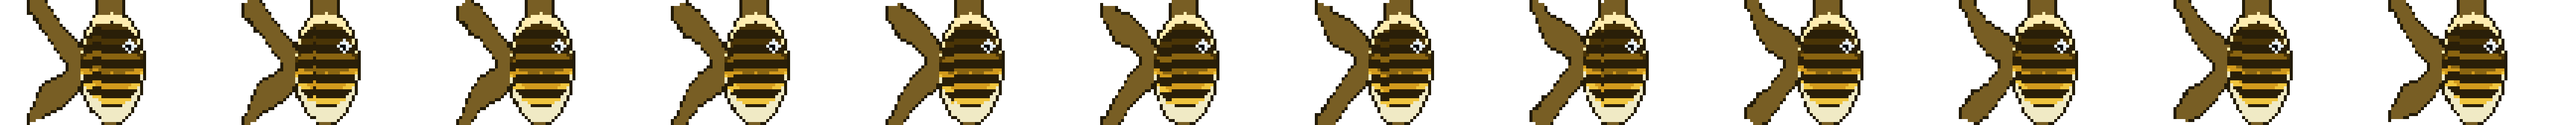
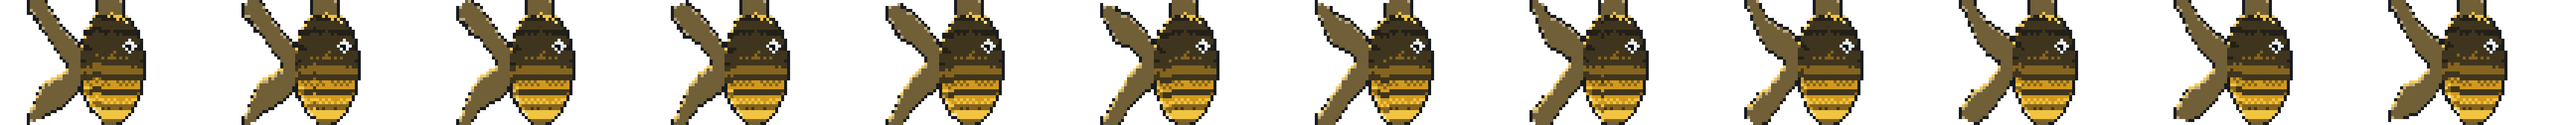
Rendering depth: dithering, hue-shifted ramps, rim light, occlusion
The generators were producing flat art: shading quantised hard onto five
ramp steps that varied in brightness but barely in hue, every silhouette
got the same 1px dark outline, and nothing was ever occluded. Fish were
the worst case — bodies shaded in horizontal bands by vertical position,
which ignores the form entirely and reads as a striped ellipse.

Core (every module inherits it):
  - ordered 4x4 Bayer dithering, so a 5-step ramp implies far more than
    five tones and band boundaries dissolve instead of snapping
  - luminance-preserving hue shift: highlights warm, shadows cool, value
    structure and the depth grade untouched
  - selective outlines — the edge facing the light takes a warm RIM role
    instead of the flat dark outline
  - a screen-space ambient-occlusion pass marching toward the light
  - a translucent TRANS role for membranes
  - one shared light direction driving all of the above

Creatures: continuous countershading plus a cylindrical falloff toward
both ends, a dithered specular highlight that follows the dorsal ridge
(replacing a blob that read as a sticker beside the eye), fin membranes
that thin toward their edge and keep every third column opaque as rays,
and markings that shade the body two ramp steps darker rather than
stamping one absolute colour — so a stripe still wraps a lit, round fish.

Flora and tiles pick up the dithering and occlusion; sea-fan webbing is
now membrane rather than stone.
[…]

diff --git a/tide-forge/index.html b/tide-forge/index.html
@@ -187,7 +187,8 @@
 // Role ids. A generated asset is a matrix of ROLES, never colors — one matrix
 // recolors into any palette / depth / corruption state. Shared by every module.
 const EMPTY=0,OUTLINE=1,SPEC=2,BACK=3,SHADOW=4,BASE=5,HIGH=6,BELLY=7,FIN=8,FINEDGE=9,
-      PATTERN=10,EYEW=11,EYEP=12,EYEH=13,GLOW=14,MOUTH=15,HAZE=16,HAZE2=17,GLOWDIM=18;
+      PATTERN=10,EYEW=11,EYEP=12,EYEH=13,GLOW=14,MOUTH=15,HAZE=16,HAZE2=17,GLOWDIM=18,
+      RIM=19,TRANS=20;
 
 const BASE_PALETTES=[
   {name:'coral',ramp:['#3a1410','#7a2d15','#c25a25','#e8873c','#f6c169']},
@@ -219,11 +220,37 @@ function fbm(x,y,s,oct,gain,P){let amp=1,f=1,sum=0,norm=0;
   for(let i=0;i<oct;i++){sum+=amp*vnoise(x*f,y*f,s+i*7919,P?P*f:0);norm+=amp;amp*=gain;f*=2;}
   return sum/norm;}
 
+// --- shading: ordered dithering ---
+// A 4x4 Bayer matrix lets a 5-step ramp imply far more than 5 tones: values that fall
+// between two steps alternate between them in a stable pattern instead of snapping.
+// This is the cheapest apparent-colour-depth trick in pixel art, and every generator
+// quantises through it.
+const LIGHT_X=-0.55, LIGHT_Y=-0.83;   // light from upper-left, shared by every generator
+const BAYER4=[[0,8,2,10],[12,4,14,6],[3,11,1,9],[15,7,13,5]];
+function shadeIndex(v,x,y,n,amt){
+  const b=(BAYER4[y&3][x&3]+0.5)/16-0.5;
+  return clamp(Math.floor(v*n+b*(amt==null?0.9:amt)),0,n-1);
+}
+// pick a role from a ramp of roles by a 0..1 lightness, dithered
+function shadeRole(ramp,v,x,y,amt){return ramp[shadeIndex(v,x,y,ramp.length,amt)];}
+
 // --- color ---
 function hex2rgb(h){return[parseInt(h.slice(1,3),16),parseInt(h.slice(3,5),16),parseInt(h.slice(5,7),16)];}
 function mix(a,b,t){return[a[0]+(b[0]-a[0])*t,a[1]+(b[1]-a[1])*t,a[2]+(b[2]-a[2])*t];}
 function darken(c,t){return mix(c,[3,6,10],t);}function lighten(c,t){return mix(c,[255,255,255],t);}
 function clamp(v,a,b){return v<a?a:v>b?b:v;}
+// Warm the highlights, cool the shadows — hue movement, not just value movement, is
+// most of what makes a ramp read as lit rather than as grey-scaled paint. Luminance is
+// restored afterwards so the ramp's value structure (and the depth grade) is untouched.
+const WARM=[255,186,96], COOL=[62,104,186];
+const luma=c=>0.299*c[0]+0.587*c[1]+0.114*c[2];
+function tintStep(c,t,strength){
+  if(!t)return c;
+  const k=Math.abs(t)*(strength==null?0.30:strength);
+  const m=mix(c,t>0?WARM:COOL,k);
+  const l0=luma(c),l1=Math.max(1,luma(m));
+  return[clamp(m[0]*l0/l1,0,255),clamp(m[1]*l0/l1,0,255),clamp(m[2]*l0/l1,0,255)];
+}
 function corruptColor(c,a){if(a<=0)return c;const l=0.3*c[0]+0.59*c[1]+0.11*c[2];let d=mix(c,[l,l,l],0.62*a);d=mix(d,[201,206,188],0.55*a);return mix(d,[150,172,132],0.18*a);}
 // the signature light-absorption curve — red dies first, then green. Shared with the game runtime.
 function gradeColor(c,depth){const t=clamp(depth/60,0,1);let r=c[0]*(1-0.88*t),g=c[1]*(1-0.42*t),b=c[2]*(1-0.10*t);r+=(9-r)*0.30*t;g+=(22-g)*0.28*t;b+=(46-b)*0.26*t;const dk=1-0.28*t;return[clamp(r*dk,0,255)|0,clamp(g*dk,0,255)|0,clamp(b*dk,0,255)|0];}
@@ -235,12 +262,20 @@ function gradeColor(c,depth){const t=clamp(depth/60,0,1);let r=c[0]*(1-0.88*t),g
 function q8(c){return[Math.round(c[0]),Math.round(c[1]),Math.round(c[2])];}
 function buildColorCache(palIdx,depth,corrupt){
   const pal=PALETTES[palIdx]||PALETTES[0];
-  const ramp=pal.ramp.map(hex2rgb),OL=q8(darken(ramp[0],0.55));
+  const ramp=pal.ramp.map(hex2rgb);
+  // how far each role sits from neutral: + warms (toward light), - cools (toward shade)
+  const TINT={[SPEC]:1.0,[BELLY]:0.62,[HIGH]:0.34,[BASE]:0,[SHADOW]:-0.42,[BACK]:-0.78,
+              [PATTERN]:-0.62,[FIN]:-0.30,[TRANS]:0.30,[RIM]:0.40};
+  const OL=q8(tintStep(darken(ramp[0],0.55),-0.9));
   const body={[SPEC]:lighten(ramp[4],0.22),[BACK]:ramp[0],[SHADOW]:ramp[1],[BASE]:ramp[2],[HIGH]:ramp[3],
-              [BELLY]:mix(ramp[4],[224,236,240],0.5),[FIN]:mix(ramp[1],OL,0.30),[PATTERN]:darken(ramp[0],0.45)};
+              [BELLY]:mix(ramp[4],[224,236,240],0.5),[FIN]:mix(ramp[1],OL,0.30),[PATTERN]:darken(ramp[0],0.45),
+              [TRANS]:mix(ramp[1],[178,210,228],0.24),[RIM]:mix(ramp[3],[255,244,214],0.20)};
   const c={};c[EMPTY]=[0,0,0,0];c[OUTLINE]=[...gradeColor(OL,depth),255];c[FINEDGE]=c[OUTLINE];
-  for(const r of[SPEC,BACK,SHADOW,BASE,HIGH,BELLY,PATTERN])c[r]=[...gradeColor(q8(corruptColor(body[r],corrupt)),depth),255];
-  c[FIN]=[...gradeColor(q8(corruptColor(body[FIN],corrupt)),depth),232];
+  for(const r of[SPEC,BACK,SHADOW,BASE,HIGH,BELLY,PATTERN,RIM])
+    c[r]=[...gradeColor(q8(corruptColor(tintStep(body[r],TINT[r],TINT[r]>0?0.30:0.20),corrupt)),depth),255];
+  c[FIN]=[...gradeColor(q8(corruptColor(tintStep(body[FIN],TINT[FIN]),corrupt)),depth),232];
+  // a membrane: fin webbing, sea-fan lattice, soft-coral edges — light passes through it
+  c[TRANS]=[...gradeColor(q8(corruptColor(tintStep(body[TRANS],TINT[TRANS]),corrupt)),depth),168];
   c[EYEW]=[...gradeColor([228,236,240],depth),255];
   c[EYEP]=[...gradeColor([10,12,16],depth),255];   // the pupil absorbs light like everything else
   c[EYEH]=[...gradeColor([255,255,255],depth),255];c[MOUTH]=c[OUTLINE];
@@ -255,27 +290,61 @@ function buildColorCache(palIdx,depth,corrupt){
 // --- pixel-matrix helpers (shared stamping vocabulary for every generator) ---
 function newMat(w,h){const m=new Array(h);for(let y=0;y<h;y++)m[y]=new Uint8Array(w);return m;}
 function put(m,w,h,x,y,role,onlyEmpty){x|=0;y|=0;if(x<0||x>=w||y<0||y>=h)return;if(onlyEmpty&&m[y][x])return;m[y][x]=role;}
-// thick tapered segment. roleFn(u,t) — u = -1..1 across the width (lit side positive), t = 0..1 along it.
+// thick tapered segment. roleFn(u,t,x,y) — u = -1..1 across the width (lit side positive),
+// t = 0..1 along it, x/y the plot coords so the callee can dither.
 function stampSeg(m,w,h,x0,y0,x1,y1,w0,w1,roleFn,onlyEmpty){
   const dx=x1-x0,dy=y1-y0,len=Math.hypot(dx,dy)||1,steps=Math.max(2,Math.ceil(len*2));
   const nx=-dy/len,ny=dx/len;
   for(let i=0;i<=steps;i++){const t=i/steps,px=x0+dx*t,py=y0+dy*t,hw=(w0+(w1-w0)*t)/2;
-    for(let o=-hw;o<=hw;o+=0.5){const u=hw>0.01?o/hw:0;put(m,w,h,Math.round(px+nx*o),Math.round(py+ny*o),roleFn(u,t),onlyEmpty);}}
+    for(let o=-hw;o<=hw;o+=0.5){const u=hw>0.01?o/hw:0;
+      const X=Math.round(px+nx*o),Y=Math.round(py+ny*o);
+      put(m,w,h,X,Y,roleFn(u,t,X,Y),onlyEmpty);}}
 }
 function stampDisc(m,w,h,cx,cy,r,roleFn,onlyEmpty){
   const ri=Math.ceil(r);
   for(let dy=-ri;dy<=ri;dy++)for(let dx=-ri;dx<=ri;dx++){const d=Math.hypot(dx,dy);if(d>r)continue;
-    put(m,w,h,Math.round(cx+dx),Math.round(cy+dy),roleFn(d/(r||1),dx,dy),onlyEmpty);}
+    const X=Math.round(cx+dx),Y=Math.round(cy+dy);
+    put(m,w,h,X,Y,roleFn(d/(r||1),dx,dy,X,Y),onlyEmpty);}
 }
-// wrap every solid pixel in OUTLINE. `soft` roles (haze/glow) neither outline nor block one.
+// Wrap every solid pixel in OUTLINE — but the edge facing the light gets RIM instead.
+// A single flat outline all the way round is what flattens pixel art; letting the lit
+// side catch a warm rim is most of the difference between a sticker and a solid object.
+// `soft` roles (haze/glow) neither outline nor block one.
 const SOFT_ROLES=new Set([HAZE,HAZE2,GLOW,GLOWDIM]);
-function outlinePass(m,w,h){
+function outlinePass(m,w,h,rimStrength){
+  const rim=rimStrength==null?0.55:rimStrength;
   const add=[];
   for(let y=0;y<h;y++)for(let x=0;x<w;x++){
     if(m[y][x])continue;
     const n=(xx,yy)=>xx>=0&&xx<w&&yy>=0&&yy<h&&m[yy][xx]&&!SOFT_ROLES.has(m[yy][xx]);
-    if(n(x-1,y)||n(x+1,y)||n(x,y-1)||n(x,y+1))add.push(y*w+x);}
-  for(const p of add)m[(p/w)|0][p%w]=OUTLINE;
+    const l=n(x-1,y),r=n(x+1,y),u=n(x,y-1),d=n(x,y+1);
+    if(!(l||r||u||d))continue;
+    // the outward normal of this edge pixel: it points away from whatever solid it touches
+    const nx=(l?1:0)-(r?1:0), ny=(u?1:0)-(d?1:0);
+    const lit=(nx*LIGHT_X+ny*LIGHT_Y);
+    add.push([y*w+x, (rim>0 && lit>0.62) ? RIM : OUTLINE]);
+  }
+  for(const [p,role] of add)m[(p/w)|0][p%w]=role;
+}
+// Darken pixels tucked under other geometry. Cheap screen-space AO: count solid
+// neighbours on the light side; the more there are, the more occluded the pixel is.
+const AO_DOWN={[SPEC]:HIGH,[BELLY]:HIGH,[HIGH]:BASE,[BASE]:SHADOW,[SHADOW]:BACK,[RIM]:HIGH,[TRANS]:FIN};
+function aoPass(m,w,h,radius,strength){
+  const R=radius==null?3:radius, k=strength==null?3:strength;
+  const src=m.map(r=>r.slice());
+  for(let y=0;y<h;y++)for(let x=0;x<w;x++){
+    const role=src[y][x];
+    const to=AO_DOWN[role];
+    if(to===undefined)continue;
+    let occ=0;
+    for(let i=1;i<=R;i++){
+      const sx=Math.round(x+LIGHT_X*i), sy=Math.round(y+LIGHT_Y*i);
+      if(sx<0||sx>=w||sy<0||sy>=h)continue;
+      const q=src[sy][sx];
+      if(q&&!SOFT_ROLES.has(q)&&q!==OUTLINE&&q!==RIM)occ++;
+    }
+    if(occ>=k)m[y][x]=to;
+  }
 }
 
 // ===================== MODULE REGISTRY =====================
@@ -303,6 +372,7 @@ const TAILS=['fork','fan','lunate','round','point'];
 const DORSALS=['none','low','sail','spiny'];
 const PATTERNS=['none','v-stripes','h-stripes','spots','diagonal','patches'];
 
+const BODY_RAMP=[BACK,SHADOW,BASE,HIGH,BELLY];
 function generateCreature(c,rng){
   const w=72,h=42,cy=h/2,A=ARCH_META[c.arch]||ARCH_META.reef;
   const rx=clamp(A.len*c.len*(w*0.5),8,w*0.5-2),ry=clamp(A.dep*c.dep*(h*0.5),4,h*0.5-3);
@@ -323,21 +393,54 @@ function generateCreature(c,rng){
   for(let x=Math.round(cx-rx);x<=Math.round(cx+rx);x++){const dx=(x-cx)/rx;if(Math.abs(dx)>1)continue;
     const hh=ry*Math.sqrt(Math.max(0,1-dx*dx)),yc=cy+curveAt(x),topH=hh*0.92,botH=hh*1.08;
     const yTop=Math.round(yc-topH),yBot=Math.round(yc+botH);topEdge[x]=yTop;botEdge[x]=yBot;const span=Math.max(1,yBot-yTop);
-    for(let y=yTop;y<=yBot;y++){const f=(y-yTop)/span;let role;
-      if(f<0.07)role=SPEC;else if(f<0.30)role=BACK;else if(f<0.55)role=SHADOW;else if(f<0.72)role=BASE;else if(f<0.87)role=HIGH;else role=BELLY;set(x,y,role);}}
+    for(let y=yTop;y<=yBot;y++){
+      const f=(y-yTop)/span;                                  // 0 = dorsal, 1 = ventral
+      // countershading is the fish's own pigment: dark back grading to a pale belly
+      let v=0.05+0.90*f;                                       // linear: dark cap, broad mid-tones, pale belly
+      // and the body is a cylinder — both ends turn away from the viewer and fall off
+      v-=0.22*Math.pow(Math.abs(dx),2.4);
+      set(x,y,shadeRole(BODY_RAMP,clamp(v,0,1),x,y,0.55));}}
   if(c.dorsal!=='none'){const x0=Math.round(cx-rx*0.42),x1=Math.round(cx+rx*0.26);for(let x=x0;x<=x1;x++){if(topEdge[x]<0)continue;let hgt;
     if(c.dorsal==='low')hgt=ry*0.34;else if(c.dorsal==='sail')hgt=ry*(0.55+0.45*Math.sin(Math.PI*(x-x0)/Math.max(1,x1-x0)));else hgt=ry*(0.30+0.42*Math.abs(Math.sin(x*0.95)));
     hgt=Math.round(hgt);for(let k=1;k<=hgt;k++)set(x,topEdge[x]-k,FIN,true);}}
   if(c.arch!=='eel'){const x0=Math.round(cx-rx*0.15),x1=Math.round(cx+rx*0.12);for(let x=x0;x<=x1;x++){if(botEdge[x]<0)continue;const hgt=Math.round(ry*0.22);for(let k=1;k<=hgt;k++)set(x,botEdge[x]+k,FIN,true);}}
   const spots=[];if(c.pattern==='spots'){const n=4+Math.floor(rng()*5);for(let i=0;i<n;i++)spots.push([cx-rx*0.4+rng()*rx*1.2,cy-ry*0.5+rng()*ry,1.4+rng()*1.6]);}
   const sw=5,ph=Math.floor(rng()*4);
-  const patHit=(x,y)=>{switch(c.pattern){case'v-stripes':return((x-ph)%sw+sw)%sw<sw*0.5;case'h-stripes':return(y%sw)<sw*0.5;case'diagonal':return((x+y)%sw)<sw*0.5;case'spots':return spots.some(s=>((x-s[0])**2+(y-s[1])**2)<s[2]*s[2]);case'patches':return hash2(x>>1,y>>1,c.seed)>0.58;default:return false;}};
-  if(c.pattern!=='none')for(let y=0;y<h;y++)for(let x=0;x<w;x++){const r=roles[y][x];if(r===SHADOW||r===BASE||r===HIGH||r===BACK){if(patHit(x,y))roles[y][x]=PATTERN;}}
+  const patHit=(x,y)=>{switch(c.pattern){case'v-stripes':return((x-ph)%sw+sw)%sw<sw*0.38;case'h-stripes':return(y%sw)<sw*0.4;case'diagonal':return((x+y)%sw)<sw*0.5;case'spots':return spots.some(s=>((x-s[0])**2+(y-s[1])**2)<s[2]*s[2]);case'patches':return hash2(x>>1,y>>1,c.seed)>0.58;default:return false;}};
+  // Markings shade the body two ramp steps darker rather than stamping one flat colour,
+  // so a stripe still reads as wrapping around a round, lit fish.
+  const MARK={[BELLY]:BASE,[HIGH]:SHADOW,[BASE]:BACK,[SHADOW]:BACK,[BACK]:PATTERN,[SPEC]:HIGH};
+  if(c.pattern!=='none')for(let y=0;y<h;y++)for(let x=0;x<w;x++){
+    const r=roles[y][x];
+    if(MARK[r]!==undefined&&patHit(x,y))roles[y][x]=MARK[r];}
+  // A wet fish catches light along its dorsal ridge — a thin highlight that follows the
+  // back and fades out at both ends, dithered so it dissolves rather than stickers on.
+  {const x0=Math.round(cx-rx*0.18),x1=Math.round(cx+rx*0.64);
+   for(let x=x0;x<=x1;x++){
+     if(x<0||x>=w||topEdge[x]<0)continue;
+     const t=(x-x0)/Math.max(1,x1-x0),strength=Math.sin(Math.PI*t);
+     for(let k=0;k<2;k++){
+       const y=topEdge[x]+k;
+       if(y<0||y>=h)continue;
+       const r=roles[y][x];
+       if(r!==BACK&&r!==SHADOW&&r!==BASE&&r!==PATTERN)continue;
+       if(shadeIndex(strength*(1-k*0.5),x,y,2,1.25))roles[y][x]=SPEC;}}}
+
+  // Fins are membrane, not slab: they thin toward the edge and the light comes through.
+  // Every third column stays opaque, which reads as fin rays.
+  {const isSolid=(xx,yy)=>xx>=0&&xx<w&&yy>=0&&yy<h&&roles[yy][xx];
+   for(let y=0;y<h;y++)for(let x=0;x<w;x++){
+     if(roles[y][x]!==FIN)continue;
+     let open=0;
+     for(const o of[[-1,0],[1,0],[0,-1],[0,1],[-2,0],[2,0],[0,-2],[0,2]])if(!isSolid(x+o[0],y+o[1]))open++;
+     if(open>=4&&x%3!==0)roles[y][x]=TRANS;}}
+
   if(A.jaw){const nx=Math.round(cx+rx);for(let i=0;i<Math.round(rx*0.28);i++)set(nx-i,Math.round(cy+curveAt(nx)+ry*0.10),MOUTH,false);}
   const ex=Math.round(cx+rx*0.60),ey=Math.round(cy+curveAt(ex)-ry*0.34),er=ry>9?2:1;
   const drawEye=(exx,eyy,rr)=>{for(let dy=-rr;dy<=rr;dy++)for(let dx=-rr;dx<=rr;dx++)if(dx*dx+dy*dy<=rr*rr)set(exx+dx,eyy+dy,EYEW,false);set(exx,eyy,EYEP,false);if(rr>1){set(exx-1,eyy,EYEP,false);set(exx,eyy+1,EYEP,false);}set(exx+1,eyy-1,EYEH,false);};
   drawEye(ex,ey,er);if(c.corrupt>0.6)drawEye(ex-Math.round(rx*0.22),ey+1,Math.max(1,er-1));
   if(c.corrupt>0.4){const gr=er+2;for(let dy=-gr;dy<=gr;dy++)for(let dx=-gr;dx<=gr;dx++){const d=dx*dx+dy*dy;if(d<=gr*gr&&d>er*er)set(ex+dx,ey+dy,GLOW,true);}}
+  aoPass(roles,w,h,3,3);
   outlinePass(roles,w,h);
   return{w,h,roles,meta:{cx,cy,headX:cx+rx,tailX:bx-tailLen,ry,anchors:{eye:[ex,ey],mouth:[Math.round(cx+rx),Math.round(cy+curveAt(cx+rx))]}}};
 }
@@ -374,7 +477,7 @@ const FLORA_ARCH={
   grass:   {rules:{X:['FX']},                                         angle:20,iterMul:4.0,len:1.00,wid:0.80,tipR:0.5,curlMul:2.2,strandSpread:11,leaf:[0.7,0.5]}
 };
 const FLORA_KEYS=Object.keys(FLORA_ARCH);
-const LIGHT=[-0.55,-0.83]; // light from upper-left, shared by every stamped form
+const LIGHT=[LIGHT_X,LIGHT_Y];
 
 function lsysExpand(axiom,rules,iter,rng){
   let s=axiom;
@@ -405,12 +508,14 @@ function generateFlora(c,rng){
   const taperStep=Math.pow(clamp(c.taper,0.5,1),6/iter);
   let minY=baseY;
 
-  // role across a segment: u = -1..1 across width, lit side positive; lower parts sit in shade
-  const segRole=(u,litSign,y)=>{
-    const s=u*litSign, deep=clamp((y-h*0.45)/(h*0.55),0,1);
-    let step = s>0.58?4 : s>0.12?3 : s>-0.34?2 : 1;      // 4=HIGH 3=BASE 2=SHADOW 1=BACK
-    if(deep>0.55&&step>1)step--;
-    return [BACK,BACK,SHADOW,BASE,HIGH][step];
+  // Lightness across a segment: the lit side is bright, the shaded side dark, and the
+  // whole plant sits deeper in shade toward its base. Quantised through the dither so a
+  // 3px stem can still imply a round surface.
+  const FLORA_RAMP=[BACK,SHADOW,BASE,HIGH,BELLY];
+  const segRole=(u,litSign,py,px)=>{
+    const sgn=u*litSign, deep=clamp((py-h*0.42)/(h*0.58),0,1);
+    let v=0.50+sgn*0.44-deep*0.17;
+    return shadeRole(FLORA_RAMP,clamp(v,0,1),px,py,0.7);
   };
 
   for(let sIdx=0;sIdx<strands;sIdx++){
@@ -437,7 +542,7 @@ function generateFlora(c,rng){
         const dx=nx0-t.x,dy=ny0-t.y,L=Math.hypot(dx,dy)||1;
         const litSign=Math.sign((-dy/L)*LIGHT[0]+(dx/L)*LIGHT[1])||1;
         const w1=Math.max(0.9,wd*taperStep);
-        stampSeg(roles,w,h,t.x,t.y,nx0,ny0,wd,w1,(u)=>segRole(u,litSign,ny0));
+        stampSeg(roles,w,h,t.x,t.y,nx0,ny0,wd,w1,(u,tt,px,py)=>segRole(u,litSign,py,px));
         t.x=nx0;t.y=ny0;t.wid=leaf?t.wid:w1;t.len=Math.max(1.2,t.len*(0.965+taperStep*0.035));
         if(ny0<minY)minY=ny0;
         segs++;
@@ -454,7 +559,7 @@ function generateFlora(c,rng){
     const step=Math.max(1,Math.ceil(tips.length/700)),pool=tips.filter((_,i)=>i%step===0);
     for(let a=0;a<pool.length;a++)for(let b=a+1;b<pool.length;b++){
       const d=Math.hypot(pool[a][0]-pool[b][0],pool[a][1]-pool[b][1]);
-      if(d>0.8&&d<lim)stampSeg(roles,w,h,pool[a][0],pool[a][1],pool[b][0],pool[b][1],1,1,()=>SHADOW,true);
+      if(d>0.8&&d<lim)stampSeg(roles,w,h,pool[a][0],pool[a][1],pool[b][0],pool[b][1],1,1,()=>TRANS,true);
     }
   }
 
@@ -466,7 +571,7 @@ function generateFlora(c,rng){
       if(c.bio)return d<0.5?GLOW:GLOWDIM;
       const len=Math.max(0.7,Math.hypot(dx,dy)),lit=(dx*LIGHT[0]+dy*LIGHT[1])/len;
       if(d<0.4&&lit>0.1)return SPEC;
-      return lit>0.34?BELLY:lit>-0.32?HIGH:BASE;});
+      return shadeRole([BASE,HIGH,BELLY],clamp(0.5+lit*0.55,0,1),Math.round(tp[0]+dx),Math.round(tp[1]+dy),0.6);});
   }
   if(c.bio)for(const tp of tips)stampDisc(roles,w,h,tp[0],tp[1],A.tipR*c.tipsize+2.4,()=>GLOWDIM,true);
 
@@ -475,6 +580,7 @@ function generateFlora(c,rng){
   for(let x=-hw;x<=hw;x++){const hgt=Math.round(2.4*Math.cos(x/hw*1.3));
     for(let y=0;y<=hgt+1;y++)put(roles,w,h,Math.round(w/2+x),baseY+1-y,y>hgt-1?SHADOW:BACK,true);}
 
+  aoPass(roles,w,h,3,3);
   outlinePass(roles,w,h);
   const height=Math.max(6,baseY-minY);
   return{w,h,roles,meta:{cx:w/2,cy:h/2,baseY,height,
@@ -540,8 +646,8 @@ function tileFill(c,x,y){
   const band=(xx,yy,bands,scale,off)=>Math.min(bands-1,(clamp(0.5+(nz(xx,yy,scale,off)-0.5)*k,0,0.9999)*bands)|0);
 
   if(c.material==='sand'){
-    const n=band(x,y,3,Math.max(2,sc/2),0),g=hash2(x,y,s+11);
-    let r=[BASE,HIGH,BELLY][n];
+    const fine=Math.max(2,sc/2),g=hash2(x,y,s+11);
+    let r=shadeRole([BASE,HIGH,BELLY],clamp(0.5+(nz(x,y,fine,0)-0.5)*k,0,1),x,y,0.25);
     if(g>0.945)r=SPEC;else if(g<0.055)r=SHADOW;
     return r;
   }
@@ -558,11 +664,11 @@ function tileFill(c,x,y){
     const g=hash2(x,y,s+7);
     if(g>0.94)return ramp[Math.min(ramp.length-1,me+1)];
     if(g<0.06)return me?ramp[me-1]:BACK;
-    return ramp[me];
+    return shadeRole(ramp,clamp(0.5+(nz(x,y,scale,0)-0.5)*k,0,1),x,y,0.25);
   }
   // coral crust — mottled, with polyp specks and the odd bioluminescent pinprick
-  const n=band(x,y,3,sc,0),m2=band(x,y,4,Math.max(2,sc/2),977),g=hash2(x,y,s+29);
-  let r=[SHADOW,BASE,HIGH][n];
+  const m2=band(x,y,4,Math.max(2,sc/2),977),g=hash2(x,y,s+29);
+  let r=shadeRole([SHADOW,BASE,HIGH],clamp(0.5+(nz(x,y,sc,0)-0.5)*k,0,1),x,y,0.25);
   if(m2===3)r=PATTERN;
   if(g>0.965)r=SPEC;else if(g>0.945)r=BELLY;else if(g<0.012)r=GLOW;
   return r;

diff --git a/tide-forge/ARCHITECTURE.md b/tide-forge/ARCHITECTURE.md
@@ -54,7 +54,15 @@ never fully auto-generated. Procedural earns its keep on **high-variety, structu
 - **DepthGrade** — the signature light-absorption transform (red dies first → blue-black) applied at
   colorize time, driven by a depth value. Shared by tool preview *and* game runtime (same math).
 - **Corruption** — the "wrongness" transform (bleach + desaturate + sickly tint + glow/extra-eye).
-- **Colorizer** — `(role, palette, depth, corruption) → RGBA`, cached per asset/state.
+- **Colorizer** — `(role, palette, depth, corruption) → RGBA`, cached per asset/state. Ramps are
+  **hue-shifted** on the way through — highlights warm, shadows cool, luminance preserved — because
+  hue movement, not just value movement, is what makes a ramp read as lit.
+- **Shading vocabulary** (shared by every generator, so form reads consistently across modules):
+  **ordered dithering** (a 4×4 Bayer matrix, so a 5-step ramp implies far more than 5 tones),
+  a **selective outline** (the lit edge takes a warm `RIM` instead of the flat dark `OUTLINE`),
+  a screen-space **ambient-occlusion** pass that darkens pixels tucked away from the light, and a
+  translucent `TRANS` role for membranes — fin webbing, sea-fan lattice. One light direction
+  (`LIGHT_X/LIGHT_Y`, upper-left) drives all of it.
 - **RNG** — seeded (mulberry32) so every asset is reproducible from `(module, cfg, seed)`.
 
 ## 3. Module interface (how "all art" stays sane)
